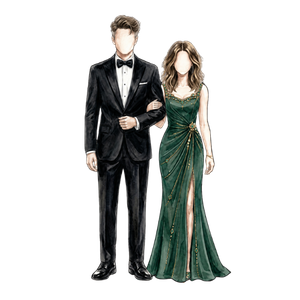
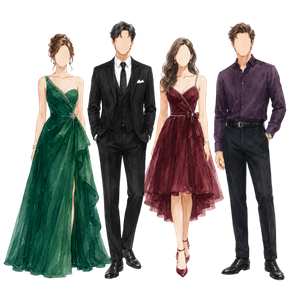
revisionround 2

diff --git a/src/components/EighteenList.jsx b/src/components/EighteenList.jsx
@@ -143,7 +143,7 @@ const SoftEdgeWash = ({ mirrored = false, palette }) => {
   )
 }
 
-const CategorySection = ({ category, index = 0, scrollerElement }) => {
+const CategorySection = ({ category, index = 0, scrollerElement, isLast = false }) => {
   const containerRef = useRef(null)
   const titleRef = useRef(null)
   const namesRef = useRef(null)
@@ -158,8 +158,10 @@ const CategorySection = ({ category, index = 0, scrollerElement }) => {
   const names = getNames()
   const nameLabel = (category.name || '').trim()
   const titleLabel = (category.title || '').trim()
-  const displayPrimary = nameLabel ? `18 ${capitalizeWords(nameLabel)}` : ''
-  const displaySubtitle = titleLabel ? titleLabel.toUpperCase() : ''
+  const titleImageSrc = nameLabel ? `/images/graphics/${nameLabel.toLowerCase()}-title.png` : ''
+  const titleAltText = [nameLabel ? `18 ${capitalizeWords(nameLabel)}` : '', titleLabel]
+    .filter(Boolean)
+    .join(' — ')
 
   const bgImage = getCategoryPrenupBg(index)
   const palette = getCategoryPalette(index)
@@ -217,7 +219,7 @@ const CategorySection = ({ category, index = 0, scrollerElement }) => {
   return (
     <section
       ref={containerRef}
-      className="eighteenths-cat-shell relative w-full overflow-hidden"
+      className="eighteenths-cat-shell relative w-full"
       style={{ backgroundColor: palette.palest }}
     >
       <div
@@ -231,13 +233,15 @@ const CategorySection = ({ category, index = 0, scrollerElement }) => {
       <SoftEdgeWash mirrored={isRightAligned} palette={palette} />
 
       <div className={`relative z-20 w-full max-w-lg px-5 sm:px-8 ${isRightAligned ? 'ml-auto' : 'mr-auto'}`}>
-        <div className={`flex flex-col py-14 sm:py-20 ${contentSideClass}`}>
+        <div className={`flex flex-col py-24 sm:py-32 md:py-40 ${contentSideClass}`}>
           <div ref={titleRef} className="eighteenths-cat-title-wrap inline-block">
-            <span className="eighteenths-cat-title font-beautyofthebeast capitalize">
-              {displayPrimary ? displayPrimary.toLowerCase() : ''}
-            </span>
-            {displaySubtitle ? (
-              <span className="eighteenths-cat-subtitle">{displaySubtitle}</span>
+            {titleImageSrc ? (
+              <img
+                src={titleImageSrc}
+                alt={titleAltText}
+                className="eighteenths-cat-title-image"
+                loading="lazy"
+              />
             ) : null}
           </div>
 
@@ -263,6 +267,16 @@ const CategorySection = ({ category, index = 0, scrollerElement }) => {
           </div>
         </div>
       </div>
+
+      {!isLast ? (
+        <img
+          src="/images/graphics/gem-divider.png"
+          alt=""
+          aria-hidden="true"
+          className="eighteenths-cat-divider pointer-events-none absolute left-1/2 bottom-0"
+          style={{ zIndex: 100 }}
+        />
+      ) : null}
     </section>
   )
 }
@@ -289,25 +303,25 @@ const EighteenList = ({ scrollerElement } = {}) => {
         .eighteenths-cat-shell .text-right .eighteenths-cat-title-wrap { align-items: flex-end; }
         .eighteenths-cat-shell .text-left  .eighteenths-cat-title-wrap { align-items: flex-start; }
 
-        .eighteenths-cat-title {
+        .eighteenths-cat-title-image {
           display: block;
-          font-size: clamp(2.35rem, 7.5vw, 3.45rem);
-          line-height: 1;
-          color: #FFFFFF;
-          text-shadow: 0 2px 18px rgba(0, 0, 0, 0.5), 0 1px 4px rgba(0, 0, 0, 0.45);
+          width: clamp(180px, 50vw, 320px);
+          height: auto;
+          object-fit: contain;
+          filter:
+            brightness(0)
+            invert(1)
+            drop-shadow(0.5px 0 0 #D4AF37)
+            drop-shadow(-0.5px 0 0 #D4AF37)
+            drop-shadow(0 0.5px 0 #D4AF37)
+            drop-shadow(0 -0.5px 0 #D4AF37);
         }
 
-        /* Serif subtitle stacked under the script "18 [Name]" title — matches Hero "YOU ARE INVITED" face */
-        .eighteenths-cat-subtitle {
-          display: block;
-          margin-top: 0.5em;
-          font-family: 'Cormorant SC', 'Playfair Display', Georgia, 'Times New Roman', serif !important;
-          font-weight: 400 !important;
-          letter-spacing: 0.16em;
-          font-size: clamp(0.95rem, 2.6vw, 1.25rem);
-          line-height: 1.1;
-          color: #FFFFFF;
-          text-shadow: 0 2px 12px rgba(0, 0, 0, 0.5), 0 1px 3px rgba(0, 0, 0, 0.45);
+        .eighteenths-cat-divider {
+          width: 100vw;
+          max-width: 100vw;
+          height: auto;
+          transform: translate(-50%, 50%);
         }
       `}</style>
       <section className="relative w-full overflow-hidden eighteenths-section bg-transparent">
@@ -316,6 +330,7 @@ const EighteenList = ({ scrollerElement } = {}) => {
             key={`eighteenth-cat-${category.name ?? index}`}
             category={category}
             index={index}
+            isLast={index === displayCategories.length - 1}
             scrollerElement={scrollerElement}
           />
         ))}

diff --git a/src/components/FAQ.jsx b/src/components/FAQ.jsx
@@ -1,6 +1,7 @@
-import React, { useEffect, useRef } from 'react'
+import React, { useEffect, useRef, useState } from 'react'
 import { gsap } from 'gsap'
 import { ScrollTrigger } from 'gsap/ScrollTrigger'
+import { FiChevronDown } from 'react-icons/fi'
 import { faq as faqData } from '../data'
 import './FAQ.css'
 
@@ -17,6 +18,11 @@ const FAQ = ({ id = 'faq' }) => {
   const faqTitleRef = useRef(null)
   const faqItems = faqData
   const scrollTriggerInstance = useRef(null)
+  const [openIndex, setOpenIndex] = useState(null)
+
+  const toggleAccordion = (index) => {
+    setOpenIndex((current) => (current === index ? null : index))
+  }
 
   useEffect(() => {
     if (!faqRef.current || !faqTitleRef.current) return
@@ -98,14 +104,38 @@ const FAQ = ({ id = 'faq' }) => {
           <div className="faq-items-stack max-w-[600px] mx-auto">
             {faqItems.faqData.map((item, index) => {
               const { text } = getFaqIconAndText(item.question)
+              const isOpen = openIndex === index
+              const panelId = `faq-panel-${index}`
+              const buttonId = `faq-trigger-${index}`
               return (
-                <div key={index} className="faq-item">
+                <div key={index} className={`faq-item ${isOpen ? 'faq-item--open' : ''}`}>
                   <h3 className="faq-question faq-item-heading font-poppins text-base font-semibold sm:text-lg">
-                    <span className="faq-question-label font-poppins">Q: {text}</span>
+                    <button
+                      type="button"
+                      id={buttonId}
+                      aria-expanded={isOpen}
+                      aria-controls={panelId}
+                      onClick={() => toggleAccordion(index)}
+                      className="faq-question-button"
+                    >
+                      <span className="faq-question-label font-poppins">Q: {text}</span>
+                      <FiChevronDown
+                        className={`faq-question-chevron ${isOpen ? 'faq-question-chevron--open' : ''}`}
+                        aria-hidden="true"
+                      />
+                    </button>
                   </h3>
-                  <div className="faq-answer-body text-sm sm:text-base pb-1">
-                    <span className="font-semibold">A: </span>
-                    <span dangerouslySetInnerHTML={{ __html: item.answer }} />
+                  <div
+                    id={panelId}
+                    role="region"
+                    aria-labelledby={buttonId}
+                    aria-hidden={!isOpen}
+                    className={`faq-answer-wrap ${isOpen ? 'faq-answer-wrap--open' : ''}`}
+                  >
+                    <div className="faq-answer-body text-sm sm:text-base pb-1">
+                      <span className="font-semibold">A: </span>
+                      <span dangerouslySetInnerHTML={{ __html: item.answer }} />
+                    </div>
                   </div>
                   {index < faqItems.faqData.length - 1 && (
                     <div className="faq-item-divider" aria-hidden />

diff --git a/src/components/DressCode.jsx b/src/components/DressCode.jsx
@@ -57,7 +57,7 @@ const DressCode = () => {
   return (
     <section
       ref={sectionRef}
-      className="relative w-full overflow-hidden pt-24 pb-44 sm:pt-28 sm:pb-52 md:pt-32 md:pb-60"
+      className="relative w-full overflow-hidden pt-24 pb-52 sm:pt-28 sm:pb-60 md:pt-32 md:pb-72"
       style={{ backgroundColor: '#27032f' }}
     >
       <div
@@ -84,8 +84,8 @@ const DressCode = () => {
         src="/images/graphics/flower-banner.png"
         alt=""
         aria-hidden="true"
-        className="absolute bottom-0 left-1/2 h-auto pointer-events-none z-10"
-        style={{ width: '100vw', maxWidth: 'none', transform: 'translateX(-50%) scaleY(-1)' }}
+        className="absolute bottom-0 right-0 h-auto pointer-events-none z-10"
+        style={{ width: '120vw', maxWidth: 'none', transform: 'scaleY(-1)' }}
       />
       <div className="relative z-20 mx-auto w-full max-w-md px-5 text-center sm:max-w-xl sm:px-8 lg:max-w-4xl lg:px-12 xl:max-w-5xl">
         <div ref={headingRef} className="flex flex-col items-center">
@@ -116,25 +116,28 @@ const DressCode = () => {
         <div ref={descriptionRef} className="mt-5 flex flex-col items-center gap-3 text-center">
           <p
             className="font-my-soul leading-none"
-            style={{
-              color: '#ffffff',
-              fontSize: 'clamp(2.35rem, 7vw, 3.75rem)'
-            }}
+            style={{ color: '#ffffff' }}
           >
-            {mainDressCode.title}
+            <span style={{ fontSize: 'clamp(1.75rem, 5.2vw, 2.85rem)' }}>
+              {mainDressCode.title}
+            </span>
+            <br />
+            <span style={{ fontSize: 'clamp(1.1rem, 3.4vw, 1.75rem)' }}>
+              {mainDressCode.subtitle}
+            </span>
           </p>
-          <p className="font-poppins text-xs sm:text-sm leading-relaxed max-w-md px-6 sm:px-8" style={{ color: '#ffffff' }}>
-            {mainDressCode.description.split('\n').map((line, i) => {
-              const isAvoidLine = /^avoid\s+wearing\s+bright\s+colors/i.test(line.trim())
+          <p className="font-poppins text-[11px] sm:text-xs leading-relaxed max-w-md px-6 sm:px-8" style={{ color: '#ffffff' }}>
+            {mainDressCode.description.split('\n\n').map((paragraph, i) => {
+              const isAvoidLine = /^avoid\s+wearing\s+bright\s+colors/i.test(paragraph.trim())
               return (
                 <React.Fragment key={i}>
                   {i > 0 ? <br /> : null}
                   {isAvoidLine ? (
                     <span className="font-semibold" style={{ color: '#ffffff' }}>
-                      {line}
+                      {paragraph}
                     </span>
                   ) : (
-                    line
+                    paragraph
                   )}
                 </React.Fragment>
               )

diff --git a/src/components/IntroSection.jsx b/src/components/IntroSection.jsx
@@ -74,7 +74,7 @@ const IntroSection = () => {
   return (
     <section
       ref={sectionRef}
-      className="relative w-full pt-28 pb-32 overflow-hidden md:pt-52 md:pb-44"
+      className="relative w-full pt-60 pb-32 overflow-hidden md:pt-96 md:pb-44"
       style={{ backgroundColor: '#e20964' }}
     >
       <img
@@ -111,18 +111,18 @@ const IntroSection = () => {
           Thank you for being part of my journey!
         </p>
         <div className="px-7 py-10 text-center sm:px-10 sm:py-12 md:px-12 md:py-14">
-          <div ref={calendarRef} className="w-4/5 mx-auto">
+          <div ref={calendarRef} className="w-4/5 mx-auto origin-top scale-125 sm:scale-[1.35]">
             <p className="font-rozha text-2xl tracking-[0.12em] uppercase">
               <span className="bg-gradient-to-r from-[#E5C988] via-[#FFFEF2] to-[#E5C988] bg-clip-text text-transparent">
                 {monthLabel} {yearLabel}
               </span>
             </p>
-            <div className="mt-3 grid grid-cols-7 gap-y-1 text-center text-xs font-rozha uppercase" style={{ color: '#ffffff' }}>
+            <div className="mt-3 grid grid-cols-7 gap-y-1 text-center text-xs font-poppins uppercase" style={{ color: '#ffffff' }}>
               {weekLabels.map((label, index) => (
                 <span key={`${label}-${index}`}>{label}</span>
               ))}
             </div>
-            <div className="mt-1 grid grid-cols-7 gap-y-1 text-center text-sm font-rozha" style={{ color: '#ffffff' }}>
+            <div className="mt-1 grid grid-cols-7 gap-y-1 text-center text-sm font-poppins" style={{ color: '#ffffff' }}>
               {calendarCells.map((day, index) => {
                 const isSelected = day === selectedDay
                 return (

diff --git a/src/components/FAQ.css b/src/components/FAQ.css
@@ -64,6 +64,54 @@
   display: inline-block;
 }
 
+.faq-question-button {
+  display: flex;
+  align-items: center;
+  justify-content: space-between;
+  gap: 1rem;
+  width: 100%;
+  padding: 0;
+  border: 0;
+  background: transparent;
+  color: inherit;
+  font: inherit;
+  text-align: left;
+  cursor: pointer;
+  appearance: none;
+}
+
+.faq-question-button:focus-visible {
+  outline: 2px solid rgba(255, 255, 255, 0.6);
+  outline-offset: 4px;
+  border-radius: 2px;
+}
+
+.faq-question-chevron {
+  flex-shrink: 0;
+  width: 1.25rem;
+  height: 1.25rem;
+  color: #ffffff;
+  transition: transform 0.3s ease;
+}
+
+.faq-question-chevron--open {
+  transform: rotate(180deg);
+}
+
+.faq-answer-wrap {
+  overflow: hidden;
+  max-height: 0;
+  opacity: 0;
+  transition: max-height 0.35s ease, opacity 0.25s ease, margin-top 0.3s ease;
+  margin-top: 0;
+}
+
+.faq-answer-wrap--open {
+  max-height: 600px;
+  opacity: 1;
+  margin-top: 0.5rem;
+}
+
 .faq-item-divider {
   height: 1px;
   margin-top: 0.5rem;

diff --git a/src/components/Venue.jsx b/src/components/Venue.jsx
@@ -118,7 +118,7 @@ const Venue = () => {
               ) : null}
               {venueData.main?.time ? (
                 <div className="mt-3 font-poppins" style={{ color: '#EFE9DC' }}>
-                  <p className="text-sm tracking-[0.04em] opacity-90 sm:text-base">{venueData.main.time}</p>
+                  <p className="text-base tracking-[0.04em] opacity-90 sm:text-lg md:text-xl">{venueData.main.time} | Saturday</p>
                 </div>
               ) : null}
             </div>
